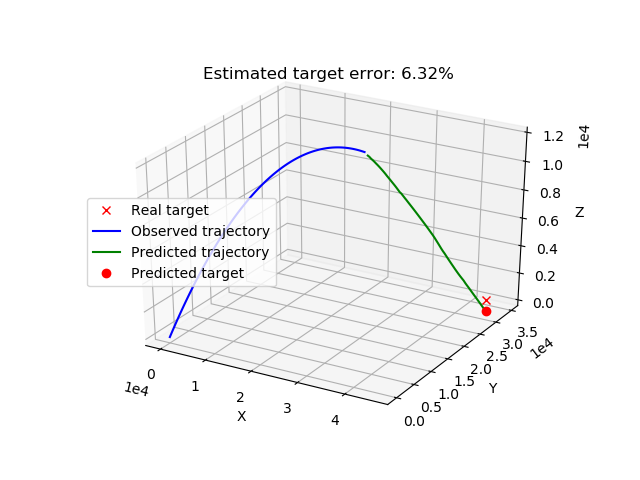
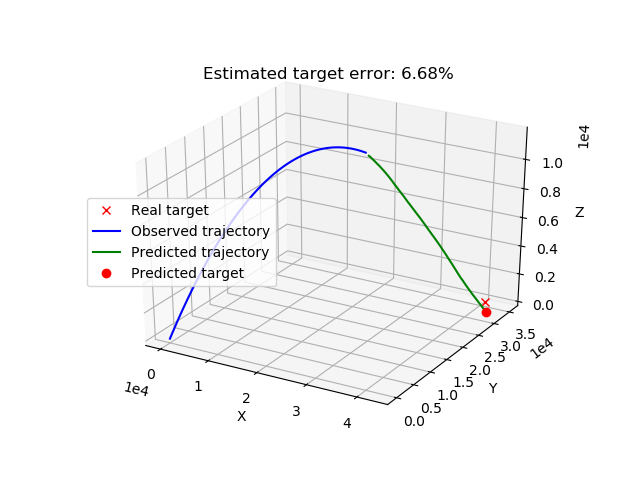
submit 2

diff --git a/trajectory_functions.py b/trajectory_functions.py
@@ -13,8 +13,6 @@ def create_dataSet(n_trajectories=100, dt=0.1, time_interval=(0, 10), initial_sp
     n_time_steps = int((time_interval[1] - time_interval[0]) / dt + 1)
     Itraj = np.zeros((n_time_steps, 3 * n_trajectories))
     Ttraj = np.zeros((3, 3 * n_trajectories))
-    RMS = np.zeros(n_trajectories)
-    ePos = np.zeros(n_trajectories)
     for ii in range(n_trajectories):
         Itraj[:, (ii * 3):(ii * 3 + 3)], Ttraj[0, (ii * 3):(ii * 3 + 3)] =\
             create_trajectory(dt=dt, time_interval=time_interval,
@@ -32,8 +30,6 @@ def create_dataSet(n_trajectories=100, dt=0.1, time_interval=(0, 10), initial_sp
         z_pos = Itraj[:, (ii*3)+2]
         color = np.random.rand(3)
         ax.plot(x_pos, y_pos, z_pos, '-', color = color, alpha = 1)
-        # ax.plot([Ttraj[ii,0]], [Ttraj[ii,1]], [Ttraj[ii,2]], 'x', color = color)
-        # ax.plot([target_estimated[0]], [target_estimated[1]], [target_estimated[2]], '.', color=color)
         plt.show()
 
     with open('data_set_1.csv', 'w', newline='') as csvFile:
@@ -109,9 +105,11 @@ def solver(dt, trajectory):
 def RMS(val1, val2):
     return np.sqrt(np.mean((val2 - val1)**2))
 
-
-def error(val1, val2):
-    return np.sqrt(np.sum((val1 - val2)**2))
+def error(real, estimated):
+    miss_distance = np.sqrt(np.sum((real[0:2] - estimated[0:2]) ** 2))
+    target_distance = np.sqrt(np.sum(real[0:2] ** 2))
+    error = miss_distance / target_distance
+    return error
 
 def my_plot(Itraj, Ttraj, predicted_traj, predicted_hit_pos, n_time_steps):
     fig = plt.figure()
@@ -128,11 +126,13 @@ def my_plot(Itraj, Ttraj, predicted_traj, predicted_hit_pos, n_time_steps):
     # miss_distance = np.sqrt((Ttraj[0, 0] - predicted_hit_pos[0])**2 + (Ttraj[0, 1] - predicted_hit_pos[1])**2)
     # target_distance = np.sqrt(Ttraj[0, 0]**2 + Ttraj[0, 1]**2)
 
-    miss_distance = np.sqrt(np.sum((Ttraj[0, 0:2] - predicted_hit_pos[0:2]) ** 2 ))
-    target_distance = np.sqrt(np.sum(Ttraj[0, 0:2] ** 2))
+    # miss_distance = np.sqrt(np.sum((Ttraj[0, 0:2] - predicted_hit_pos[0:2]) ** 2 ))
+    # target_distance = np.sqrt(np.sum(Ttraj[0, 0:2] ** 2))
+    # error = miss_distance / target_distance
 
-    error = miss_distance / target_distance
-    ax.set_title("Estimated target error: {:.2f}%".format(error*100))
+    e = error(Ttraj[0, :], predicted_hit_pos[:])
+
+    ax.set_title("Estimated target error: {:.2f}%".format(e*100))
     ax.legend(loc='center left', bbox_to_anchor=(0, 0.5))
     ax.ticklabel_format(style='sci', axis='x', scilimits=(0, 0))
     ax.ticklabel_format(style='sci', axis='y', scilimits=(0, 0))

diff --git a/Main.py b/Main.py
@@ -61,6 +61,8 @@ def test_and_track(inout_size, Itraj, Ttraj):
     miss_distance = np.sqrt(np.sum((Ttraj[0, 0:2] - predicted_hit_pos[0:2]) ** 2))
     target_distance = np.sqrt(np.sum(Ttraj[0, 0:2] ** 2))
     error = miss_distance / target_distance
+
+    e = trj.error(Ttraj[0, :], predicted_hit_pos[:])
     print("Estimated target error: {:.2f}%".format(error*100))
     return Itraj, predicted_hit_pos
 
